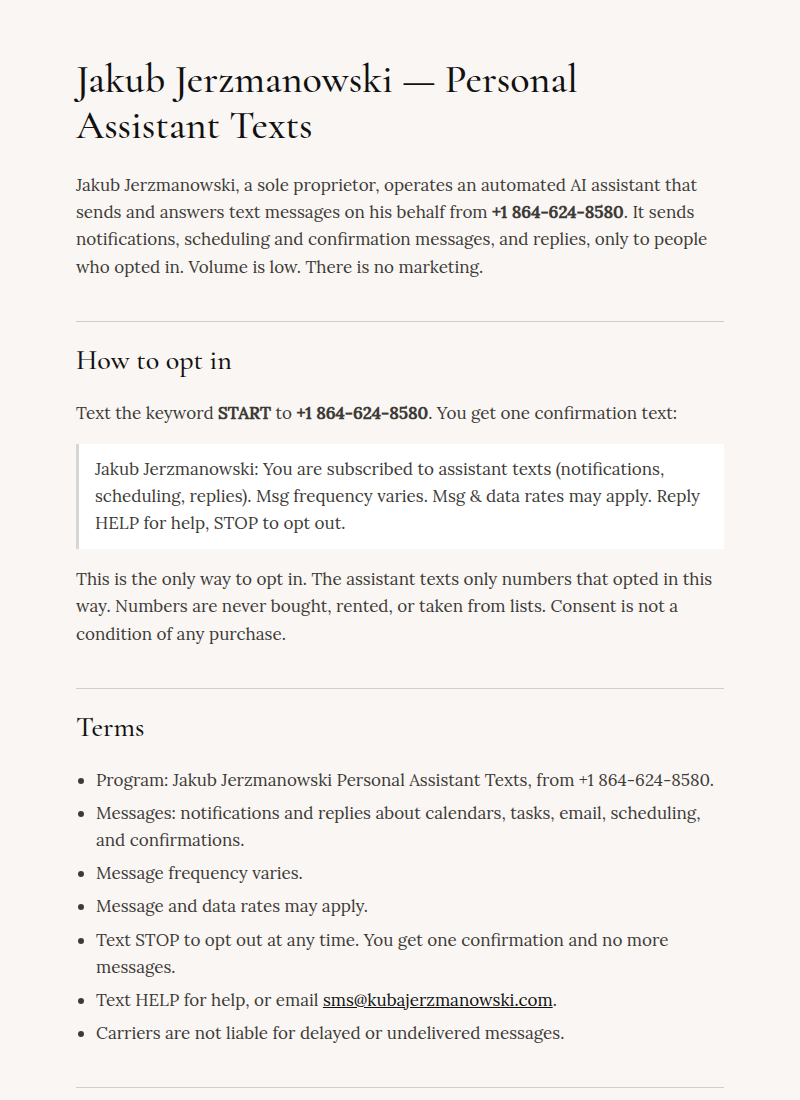
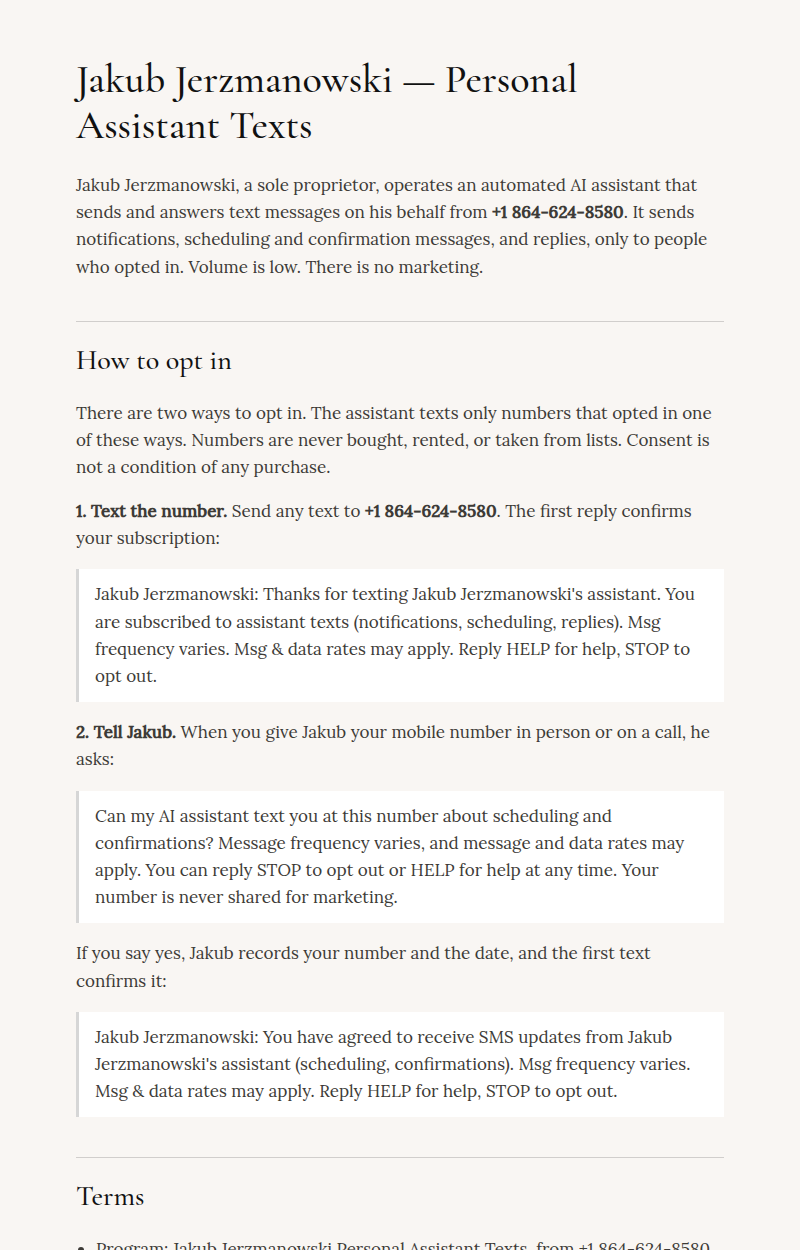
Describe two SMS opt-ins: texting the number and verbal consent
Claude-Session: https://claude.ai/code/session_014FMa4k33QTWY6kdoaXnzo6

diff --git a/sms/terms/index.html b/sms/terms/index.html
@@ -50,14 +50,30 @@
   low. There is no marketing.</p>
 
   <h2 id="join">How to opt in</h2>
-  <p>Text the keyword <strong>START</strong> to
-  <strong>+1 864-624-8580</strong>. You get one confirmation text:</p>
-  <blockquote>Jakub Jerzmanowski: You are subscribed to assistant texts
-  (notifications, scheduling, replies). Msg frequency varies. Msg &amp; data
-  rates may apply. Reply HELP for help, STOP to opt out.</blockquote>
-  <p>This is the only way to opt in. The assistant texts only numbers that
-  opted in this way. Numbers are never bought, rented, or taken from lists.
-  Consent is not a condition of any purchase.</p>
+  <p>There are two ways to opt in. The assistant texts only numbers that
+  opted in one of these ways. Numbers are never bought, rented, or taken from
+  lists. Consent is not a condition of any purchase.</p>
+
+  <p><strong>1. Text the number.</strong> Send any text to
+  <strong>+1 864-624-8580</strong>. The first reply confirms your
+  subscription:</p>
+  <blockquote>Jakub Jerzmanowski: Thanks for texting Jakub Jerzmanowski's
+  assistant. You are subscribed to assistant texts (notifications,
+  scheduling, replies). Msg frequency varies. Msg &amp; data rates may apply.
+  Reply HELP for help, STOP to opt out.</blockquote>
+
+  <p><strong>2. Tell Jakub.</strong> When you give Jakub your mobile number in
+  person or on a call, he asks:</p>
+  <blockquote>Can my AI assistant text you at this number about scheduling
+  and confirmations? Message frequency varies, and message and data rates may
+  apply. You can reply STOP to opt out or HELP for help at any time. Your
+  number is never shared for marketing.</blockquote>
+  <p>If you say yes, Jakub records your number and the date, and the first
+  text confirms it:</p>
+  <blockquote>Jakub Jerzmanowski: You have agreed to receive SMS updates from
+  Jakub Jerzmanowski's assistant (scheduling, confirmations). Msg frequency
+  varies. Msg &amp; data rates may apply. Reply HELP for help, STOP to opt
+  out.</blockquote>
 
   <h2 id="terms">Terms</h2>
   <ul>
